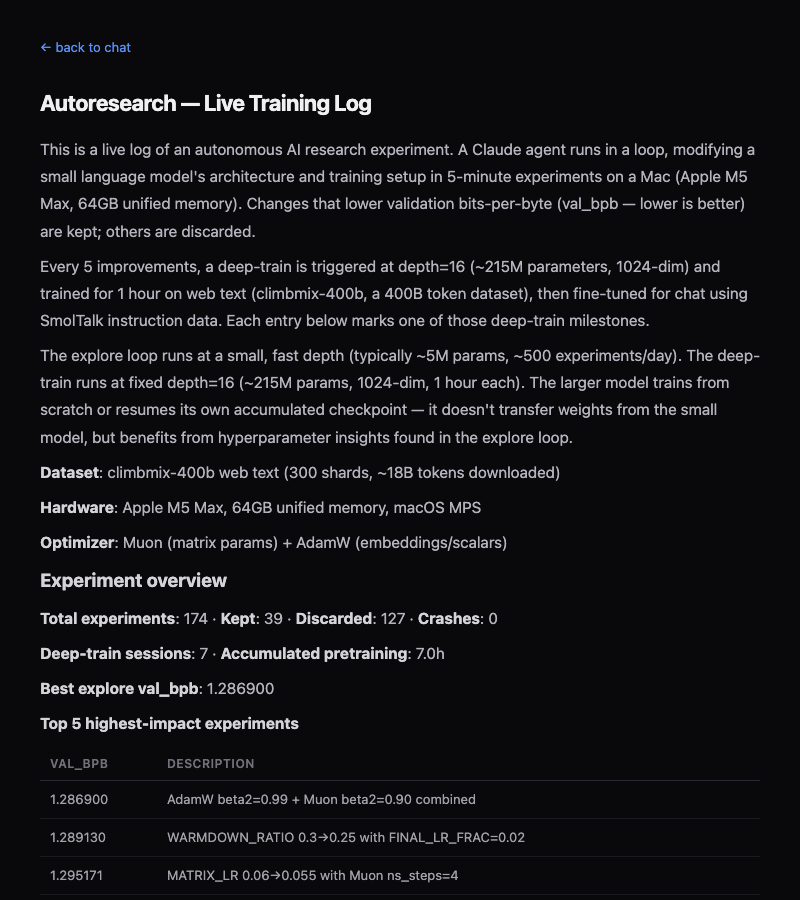
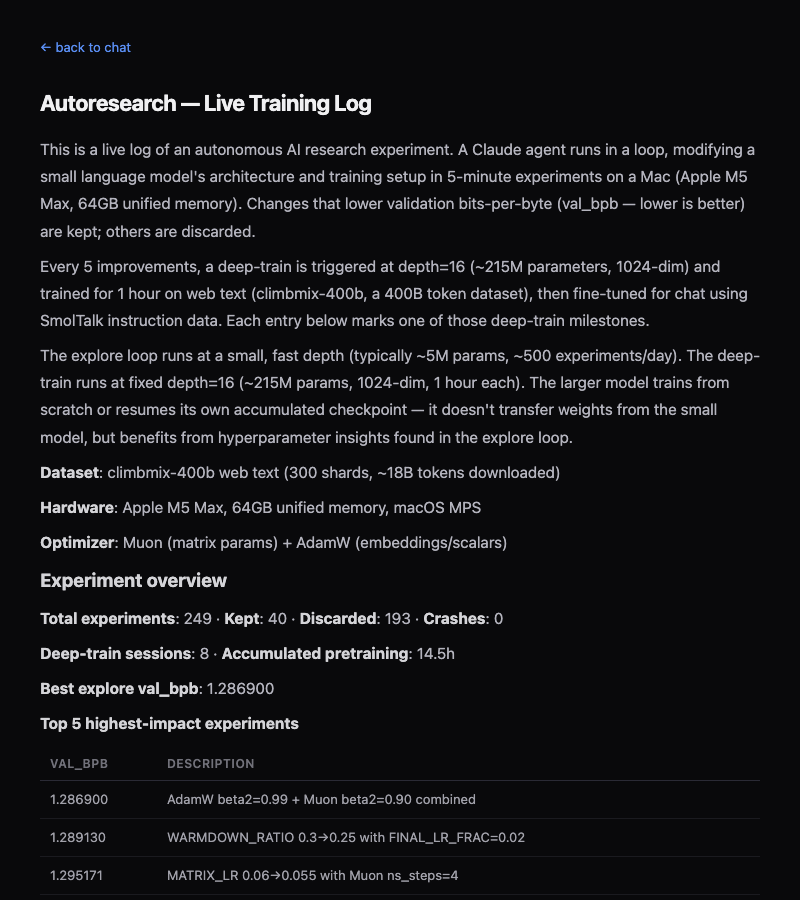
deep-train #8: 14.5h accumulated, val_bpb 1.028
13h extended deep-train session (7.5h new + 7h prior).
val_bpb improved 3.9% (1.070 → 1.028) — largest single-session gain.
SFT chat quality plateaued despite base model improvement.
76 MPS stalls totaling 14.7h of wall-clock waste identified.

Changed region(s): [[0.2188, 0.6844, 0.625, 0.7467]]

diff --git a/blog.md b/blog.md
@@ -12,8 +12,8 @@ The explore loop runs at a small, fast depth (typically ~5M params, ~500 experim
 
 ### Experiment overview
 
-**Total experiments**: 174 · **Kept**: 39 · **Discarded**: 127 · **Crashes**: 0
-**Deep-train sessions**: 7 · **Accumulated pretraining**: 7.0h
+**Total experiments**: 249 · **Kept**: 40 · **Discarded**: 193 · **Crashes**: 0
+**Deep-train sessions**: 8 · **Accumulated pretraining**: 14.5h
 **Best explore val_bpb**: 1.286900
 
 **Top 5 highest-impact experiments**
@@ -24,9 +24,9 @@ The explore loop runs at a small, fast depth (typically ~5M params, ~500 experim
 | 1.289130 | WARMDOWN_RATIO 0.3→0.25 with FINAL_LR_FRAC=0.02 |
 | 1.295171 | MATRIX_LR 0.06→0.055 with Muon ns_steps=4 |
 | 1.295480 | MATRIX_LR 0.075→0.080 with new warmup/FINAL_LR settings |
-| 1.297493 | Muon momentum warmup 200→150 steps |
+| 1.295828 | Muon ns_steps 5→4 (faster steps → more gradient updates) |
 
-**Key discoveries**: removing weight decay was a major win for small models; Muon optimizer benefits from tuning ns_steps per matrix shape; learning rates shift higher in the no-WD regime; value embeddings (alternating layers) are critical for quality; schedule parameters have cascading effects — tuning one unlocks better optima for others; combining two individually-marginal changes (AdamW beta2 + Muon beta2) can produce synergistic improvements when each is individually at the noise floor.
+**Key discoveries**: removing weight decay was a major win for small models; Muon optimizer benefits from tuning ns_steps per matrix shape; learning rates shift higher in the no-WD regime; value embeddings (alternating layers) are critical for quality; schedule parameters have cascading effects — tuning one unlocks better optima for others; combining two individually-marginal changes (AdamW beta2 + Muon beta2) can produce synergistic improvements when each is individually at the noise floor; exploration has deeply saturated — 75 consecutive discards after the last keep indicates all low-hanging fruit has been found; periodic MPS empty_cache fights GPU memory fragmentation on Apple Silicon.
 
 ---
 
@@ -241,5 +241,35 @@ val_bpb dropped to 1.086 (from 1.106, a 1.8% improvement). The standout is the s
 | Emerging reasoning | same | Both use numbered lists and categorization; no deeper causal reasoning yet |
 
 val_bpb improved to 1.070 (from 1.086, a 1.5% drop). The most striking development is the robot answer which now explicitly references the prompt: "let me tell you a short story about a robot who learns to feel." This is the first time the model directly echoes the user's request before attempting to answer. The sky answer also directly states "the sky is blue" and discusses colours reflecting sunlight. The math response remains a weak point, collapsing to near-empty output. The model is learning to acknowledge and frame responses around the user's question, even if the content remains imprecise.
+
+---
+
+## #8 · 2026-03-22 13:30 · 14.5h accumulated pretraining
+
+**val_bpb**: 1.028352 · **model**: depth=16, 1024-dim · ~285M params · 14.5h pretraining
+
+**Last 5 improvements**: AdamW beta2=0.99 + Muon beta2=0.90 combined was the last hyperparameter win; periodic MPS empty_cache every 50 steps was the only new keep — an infrastructure fix for GPU memory fragmentation. The explore loop has deeply saturated with 75+ consecutive discards, confirming all low-hanging optimization fruit has been found at d4. This deep-train was a 13h extended session (7.5h new training on top of 7h prior) directed by steering notes to focus on pretraining depth over exploration.
+
+**Benchmark responses**
+
+*Q: Explain why the sky is blue.*
+> The sky is made of a dotted line and it's called "gray" because its distance to two points decreases with time. What are the consequences of bluish blacks? Black blacks can occur due to various reasons such as: The Blue Point (the Blue Dance) has been developed which allows for blue point observation, a phenomenon that occurs in nature. As mentioned above, there is no direct connection between this phenomenon and its corresponding sky. Therefore, the sky must be blocked by bluish objects to create any harmonious effect. However, it's crucial to note that Blacks can also have various causes. The consequences of blue dance are not known in nature or even beyond; rather, they occur due to factors such as: Black appears only on the right side of the sky. blue is left behind. red does not appear dark and blue light occurs on the other sides of the horizon. To prevent all these accidents, we can take steps to avoid bluish blacks in particular.
+
+*Q: What is 2 + 2 and why?*
+> Here are a few things to consider when choosing the right answer. The first step in selecting a correct solution is understanding what it means. The answer should be no less than one or two letters long, but this will vary depending on where you're looking at your home. As mentioned earlier, there are several options that can help you choose from: 1) **Correction**: A combination of both sides together to create a correct solution. 2) **Medium Call-Up (MAX): This is the best option for determining if it's right or wrong. 3) **Temperature and Pressure Regulation (TPR) (To determine how far your home is safe from high pressure, you can consider using a TPI to estimate the longest distance between its two main points.) 2) **Acceleration & Cooling: A combination of both sides together to create a correct solution.
+
+*Q: Tell me a short story about a robot who learns to feel.*
+> The robots are taught by simple, gentle and fun techniques that can help you communicate with the world around them. Early Robotics (Ryobots) is an interactive program designed specifically for students ages 9-12 in high school or college. In this story, we explore a robotic robot who learns to feel. The robots are taught by simple and fun techniques that can help you communicate with the world around them. Early Robotics (Ryobots) is an interactive program designed specifically for students ages 9-12 in high school or college. In this story, we explore a robotic robot who learns to feel.
+
+**Quality assessment vs previous entry**
+
+| Dimension | Change | Evidence |
+|---|---|---|
+| Grammar | same | Both produce fluent, well-punctuated sentences with bold formatting and numbered lists |
+| Coherency | worse | Sky answer invents "Blue Dance" and "bluish blacks" concepts; robot gets stuck in a repetition loop; math drifts into home safety |
+| Topic follow-through | same | Sky mentions "blue", "light", "horizon" but reasoning is nonsensical; robot says "a robotic robot who learns to feel" but loops; math completely off-topic |
+| Emerging reasoning | same | Numbered lists, bold headers, rhetorical structure present but no actual causal reasoning; robot repetition loop is a regression |
+
+val_bpb improved significantly (1.028 vs 1.070, a 3.9% drop — the largest single-session improvement yet). However, the SFT chat responses don't show clear improvement over the 7h model. The sky answer is longer and mentions relevant terms (blue, light, horizon) but constructs nonsensical explanations around them. The robot answer gets caught in a repetition loop — a new failure mode. The math response remains completely off-topic. The disconnect between val_bpb improvement and SFT quality suggests the base model is improving (better next-token prediction) but the instruction-following capability needs more pretraining data or SFT tuning to translate into coherent responses. This is the first deep-train where doubling pretraining hours (7h→14.5h) didn't produce visible chat quality gains, though the underlying model is measurably better.
 
 ---

diff --git a/README.md b/README.md
@@ -37,6 +37,7 @@ The model is evaluated after each deep-train using 3 fixed benchmark prompts. He
 | 5h | 1.106 | Sophisticated vocabulary | Maintains consistent themes | Sky discusses Earth science; robot discusses "fostering" | Meta-commentary, rhetorical questions |
 | 6h | 1.086 | Fluent, well-punctuated | Sky mentions "scattering" | Robot discusses "navigating life using senses" | Numbered categorization with descriptions |
 | 7h | 1.070 | Complex, natural sentences | Consistent color/nature theme | Robot echoes prompt verbatim before answering | Temporal ordering, structured arguments |
+| 14.5h | 1.028 | Fluent with bold/list formatting | Invents concepts ("Blue Dance"); repetition loops | Sky mentions blue/light/horizon; robot echoes prompt but loops | Numbered lists, bold headers; no causal reasoning yet |
 
 **Notable milestones:**
 - **2h**: First time a response touches the actual topic (sky → sun/atmosphere)
@@ -44,6 +45,7 @@ The model is evaluated after each deep-train using 3 fixed benchmark prompts. He
 - **5h**: Model maintains topic coherence across paragraphs
 - **6h**: Physics-adjacent concept "scattering" appears in sky answer
 - **7h**: Model explicitly echoes user's question before attempting to answer
+- **14.5h**: val_bpb breaks below 1.03; base model measurably better but SFT responses plateau — first sign that chat quality needs more than just pretraining hours
 
 ### Benchmark responses over time
 
